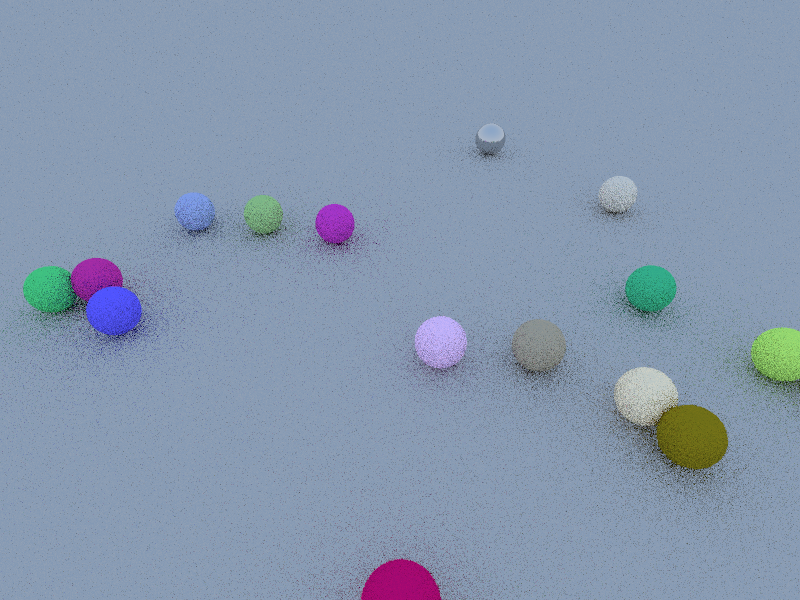
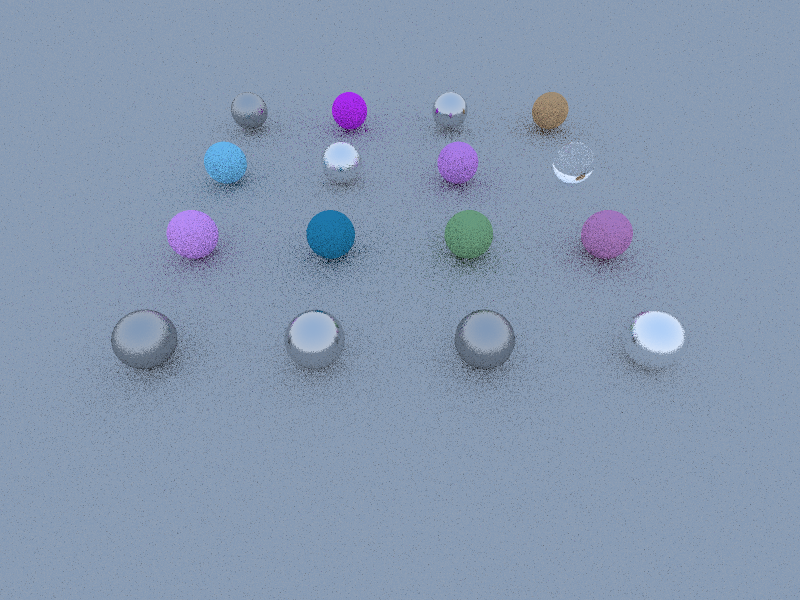
fix: constant samplesPerPixel

diff --git a/src/main.cpp b/src/main.cpp
@@ -19,7 +19,7 @@ int main() {
 
 void DrawRandomScenes() {
 	Raytracer raytracer(
-		800, 600, glm::vec3(3.0f, 3.0f, 2.0f), glm::vec3(0.0f, 0.0f, 0.0f), 60.0f, 0.01f, 10.0f, 4
+		800, 600, glm::vec3(0.0f, 5.0f, 0.0f), glm::vec3(0.0f, 0.0f, 5.0f), 60.0f, 0.01f, 10.0f
 	);
 
 	int numScenes = 1;
@@ -29,32 +29,32 @@ void DrawRandomScenes() {
 		auto groundMaterial = std::make_shared<Lambertian>(glm::vec3(0.5f, 0.5f, 0.5f));
 		raytracer.World.Add(std::make_shared<Sphere>(glm::vec3(0.0f, -1000.0f, 0.0f), 1000.0f, groundMaterial));
 
-        for (int a = 0; a < 6; a++) {
-            for (int b = 0; b < 6; b++) {
+        for (int a = 0; a < 4; a++) {
+            for (int b = 0; b < 4; b++) {
                 auto choose_mat = randomFloatU();
-                glm::vec3 center(-3.0f + randomFloatU() * 6, 0.2, -3 + randomFloatU() * 6);
+                glm::vec3 center(a * 2.0 - 3.0, 0.35, b * 2.0 + 4.0);
 
                 if ((center - glm::vec3(4.0f, 0.2f, 0.0f)).length() > 0.9f) {
                     std::shared_ptr<Material> sphere_material;
 
-                    if (choose_mat < 0.8) {
+                    if (choose_mat < 0.6) {
                         // diffuse
                         auto albedo = randomColor();
                         sphere_material = std::make_shared<Lambertian>(albedo);
-                        raytracer.World.Add(std::make_shared<Sphere>(center, 0.2f, sphere_material));
+                        raytracer.World.Add(std::make_shared<Sphere>(center, 0.35f, sphere_material));
                     }
-                    else if (choose_mat < 0.95) {
+                    else if (choose_mat < 0.9) {
                         // metal
                         float r = randomFloatU() * 0.5f;
                         auto albedo = glm::vec3(r + 0.5f);
                         auto fuzz = randomFloatU() * 0.5f;
                         sphere_material = std::make_shared<Metal>(albedo, fuzz);
-                        raytracer.World.Add(std::make_shared<Sphere>(center, 0.2f, sphere_material));
+                        raytracer.World.Add(std::make_shared<Sphere>(center, 0.35f, sphere_material));
                     }
                     else {
                         // glass
                         sphere_material = std::make_shared<Dielectric>(1.5f);
-                        raytracer.World.Add(std::make_shared<Sphere>(center, 0.2f, sphere_material));
+                        raytracer.World.Add(std::make_shared<Sphere>(center, 0.35f, sphere_material));
                     }
                 }
             }

diff --git a/src/Raytracer.cpp b/src/Raytracer.cpp
@@ -6,11 +6,11 @@
 #include <iostream>
 #include <memory>
 
-Raytracer::Raytracer(int width, int height, const glm::vec3& camPos, const glm::vec3& lookAt, float fov, float aperture, float focusDistance, int raysPerPixel)
+Raytracer::Raytracer(int width, int height, const glm::vec3& camPos, const glm::vec3& lookAt, float fov, float aperture, float focusDistance)
 	: Camera(camPos, lookAt, width, height, fov, aperture, focusDistance), Canvas(width, height),
 	m_Width(width), m_Height(height)
 {
-	m_PixelWidth = (int)sqrt(raysPerPixel);
+	m_PixelWidth = 2;
 	m_GPU = std::make_unique<ComputeShader>(m_Width, m_Height);
 	m_GPUData = std::make_unique<SceneData>();
 	
@@ -57,7 +57,6 @@ void Raytracer::UpdateGPUData()
 	// General Information
 	m_GPUData.get()->width = m_Width;
 	m_GPUData.get()->height = m_Height;
-	m_GPUData.get()->samplesPerPixel = m_PixelWidth * m_PixelWidth;
 
 	// Camera
 	m_GPUData.get()->camera.position = Camera.Position;

diff --git a/src/Raytracer.h b/src/Raytracer.h
@@ -8,7 +8,7 @@
 class Raytracer {
 public:
 
-	Raytracer(int width, int height, const glm::vec3& camPos, const glm::vec3& lookAt, float fov, float aperture, float focusDistance, int raysPerPixel);
+	Raytracer(int width, int height, const glm::vec3& camPos, const glm::vec3& lookAt, float fov, float aperture, float focusDistance);
 	void Draw();
 
 	/*

diff --git a/src/SceneData.h b/src/SceneData.h
@@ -35,7 +35,6 @@ struct HittableList {
 struct SceneData {
     int width;
     int height;
-	int samplesPerPixel;
 	CameraData camera;
 	HittableList list;
 };
